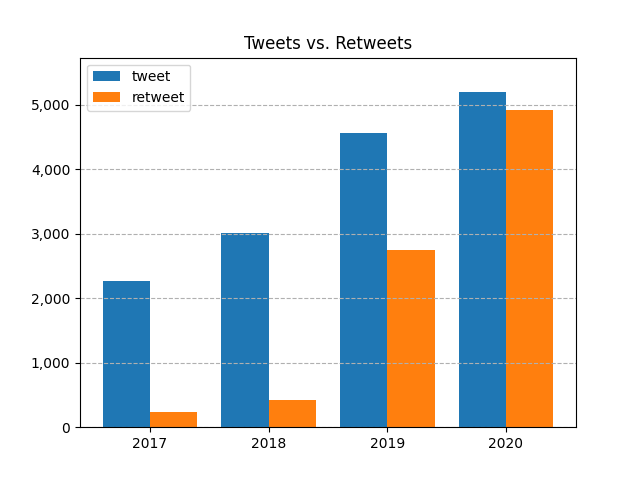
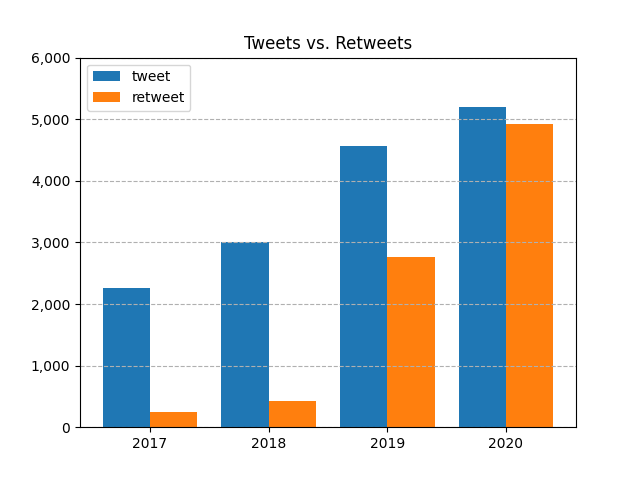
add chart of tweets by month

diff --git a/scripts/make_charts.py b/scripts/make_charts.py
@@ -10,20 +10,27 @@ total = len(df)
 print('found {} total tweets'.format(total))
 
 
+# list of years
+yrs_array = df['created_yy'].unique()
+yrs = sorted(yrs_array) # [2017, 2018, ...]
+yrs = [str(yr) for yr in yrs]
+
+
+
 # 1: number of tweets by year
 
+title = 'Number of Tweets by Year'
 f_name = 'plt_01.png'
 
 fig = plt.figure() # creates current figure
 ax = plt.subplot() # creates current axes
 
-ax.set_title('Number of Tweets by Year')
+ax.set_title(title)
 
-yrs = ['2017', '2018', '2019', '2020']
 ts = []
-for yr in yrs:
-    count = len(df[df['created_yy'] == int(yr)])
-    ts.append(count)
+for y in yrs:
+    cnt = len(df[df['created_yy'] == int(y)])
+    ts.append(cnt)
 
 bars = ax.bar(yrs, ts)
 
@@ -39,15 +46,127 @@ for i, bar in enumerate(bars):
         horizontalalignment='center')
 
 # y-axis seems kind of short, so make it 5% taller 
-_, _, ymin, ymax = plt.axis()
-ax.set(ylim=(ymin, ymax * 1.05)) 
+#_, _, ymin, ymax = plt.axis()
+#ax.set(ylim=(ymin, ymax * 1.05)) 
 
-#ax.set_xlabel('Year')
-#ax.set_ylabel('Tweets')
+# format y-labels with a thousands separator and no decimals
+yticks = ax.get_yticks()
+ax.set_yticks(yticks) # needed for 
+yticks = ['{:,.0f}'.format(t) for t in yticks.tolist()]
+ax.set_yticklabels(yticks)
 
-fig.savefig('plt_01.png')
+# show y-grid line
+ax.grid(axis='y', which='major', linestyle='--')
+
+fig.savefig(f_name)
 plt.close() # closes current figure (not required but keeps the memory clean)
 
-print('created plot {}'.format(f_name))
+print('saved plot {}'.format(f_name))
+
+
+
+# 2: number of tweets by re-tweet vs tweet
+
+title = 'Tweets vs. Retweets'
+f_name = 'plt_02.png'
+
+fig = plt.figure() # creates current figure
+ax = plt.subplot() # creates current axes
+
+ax.set_title(title)
+
+ts_tweet = []
+ts_retwt = []
+for y in yrs:
+    cnt_tweet = len(df[(df.created_yy == int(y)) & (df.is_retweet == False)])
+    cnt_retwt = len(df[(df.created_yy == int(y)) & (df.is_retweet == True)])
+    ts_tweet.append(cnt_tweet)
+    ts_retwt.append(cnt_retwt)
+
+yrs_tweet = np.arange(len(yrs)) - 0.2
+yrs_retwt = np.arange(len(yrs)) + 0.2
+
+bars = ax.bar(yrs_tweet, height=ts_tweet, width=0.4, label='tweet')
+bars = ax.bar(yrs_retwt, height=ts_retwt, width=0.4, label='retweet')
+
+# y-axis by default is somewhat short, so make it 5% taller 
+#_, _, ymin, ymax = plt.axis()
+#ax.set(ylim=(ymin, ymax * 1.05)) 
+
+ax.legend()
+
+# set x-labels to years
+ax.set_xticks(np.arange(len(yrs)))
+ax.set_xticklabels(yrs)
+
+# format y-labels with a thousands separator and no decimals
+yticks = ax.get_yticks()
+ax.set_yticks(yticks) # needed for FixedLocator
+yticks = ['{:,.0f}'.format(t) for t in yticks.tolist()]
+ax.set_yticklabels(yticks)
+
+# show y-grid line
+ax.grid(axis='y', which='major', linestyle='--')
+
+fig.savefig(f_name)
+plt.close() # closes current figure (not required but keeps the memory clean)
+
+print('saved plot {}'.format(f_name))
+
+
+
+# 3: number of tweets by month
+
+title = 'Tweets by Month'
+f_name = 'plt_03.png'
+
+fig = plt.figure(figsize=(12, 5), tight_layout=True) # creates current figure
+ax = plt.subplot() # creates current axes
+
+ax.set_title(title)
+
+ts = []
+for y in yrs:
+    for m in range(1, 13):
+        cnt = len(df[(df.created_yy == int(y)) & (df.created_mm == m)])
+        ts.append(cnt)
+
+ms = len(yrs) * ['J', 'F', 'M', 'A', 'M', 'J', 'J', 'A', 'S', 'O', 'N', 'D'] 
+ms_array = np.arange(len(ms))
+ax.bar(ms_array, height=ts, width=0.6) 
+
+# set x-labels to months
+ax.set_xticks(ms_array)
+ax.set_xticklabels(ms)
+
+# format y-labels with a thousands separator and no decimals
+yticks = ax.get_yticks()
+ax.set_yticks(yticks) # needed for FixedLocator
+yticks = ['{:,.0f}'.format(t) for t in yticks.tolist()]
+ax.set_yticklabels(yticks)
+
+# show y-grid line
+ax.grid(axis='y', which='major', linestyle='--')
+
+# add vertical lines to separate years
+xloc = [((n * 12) - 0.5) for n in range(1, len(yrs))]
+for n in xloc:
+    ax.axvline(x=n, ymin=0, ymax=1, linestyle='--', color=(1.0, 0.39, 0.28, 0.9))
+
+# add years below x-axis,i.e. below months
+for i, y in enumerate(yrs):
+    ax.text(x=(i * 12 + 5.5), y=-150, s=y, horizontalalignment='center')
+
+# x-axis limits by default are wasteful, so set my own
+xmin = -1
+xmax = len(ms)
+ax.set(xlim=(xmin, xmax)) 
+
+fig.savefig(f_name)
+plt.close() # closes current figure (not required but keeps the memory clean)
+
+print('saved plot {}'.format(f_name))
+
+
 
 

diff --git a/README.md b/README.md
@@ -8,16 +8,17 @@ President Trump has sent a total of 23,384 tweets between January 1, 2017 and No
 
 ![Tweets vs retweets][plt2]
 
+![Tweets by month][plt3]
 
 You can view any of the tweets from this this dataset at Twitter.com by replacing the ending of the link shown below with the id of the tweet you are interested in, and opening the link in your browser:
 
 https://twitter.com/realDonaldTrump/status/tweet-id-here
 
-
 More to come...
-
 
 Last updated: November 8, 2020
 
 [plt1]: images/plt_01.png
 [plt2]: images/plt_02.png
+[plt3]: images/plt_03.png
+
